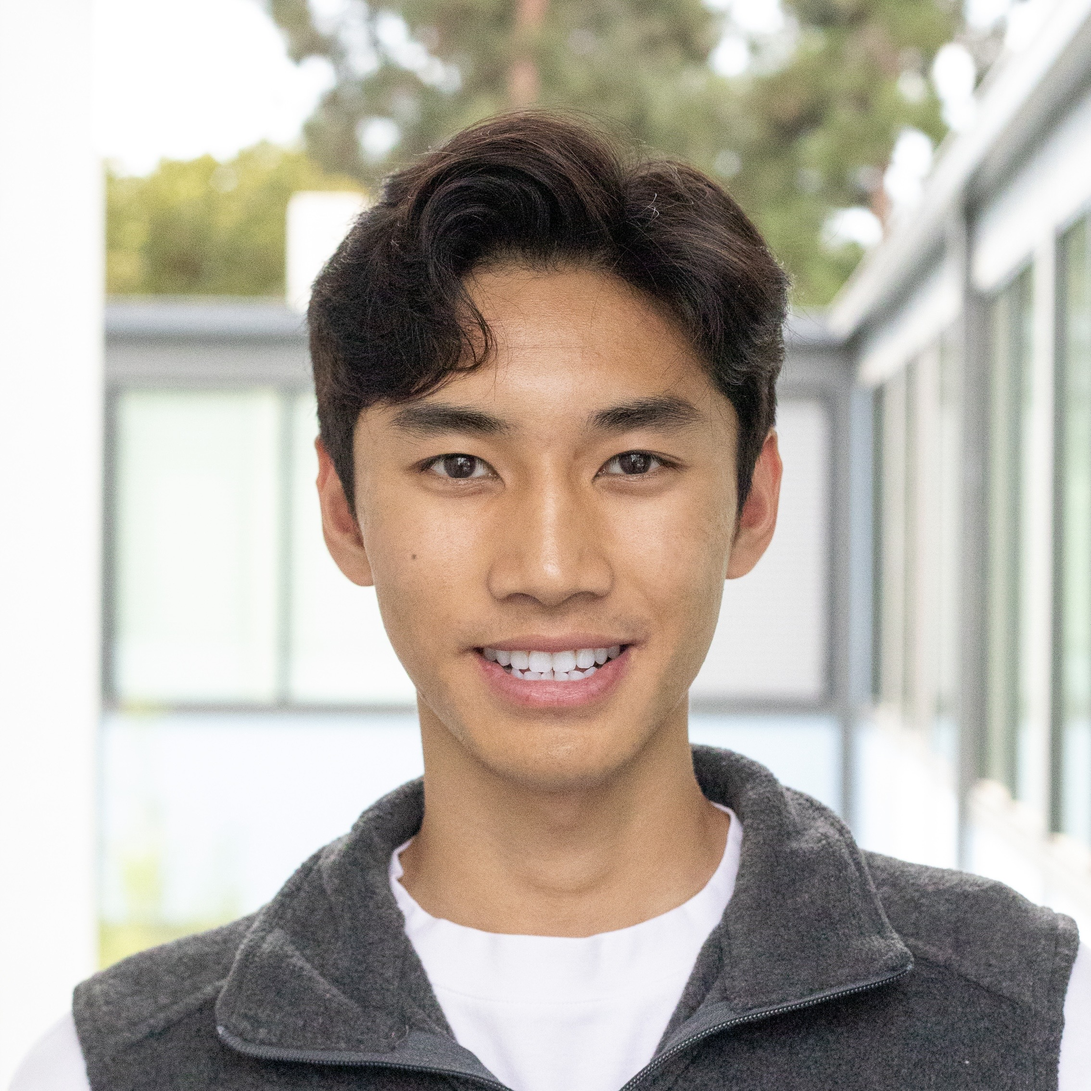
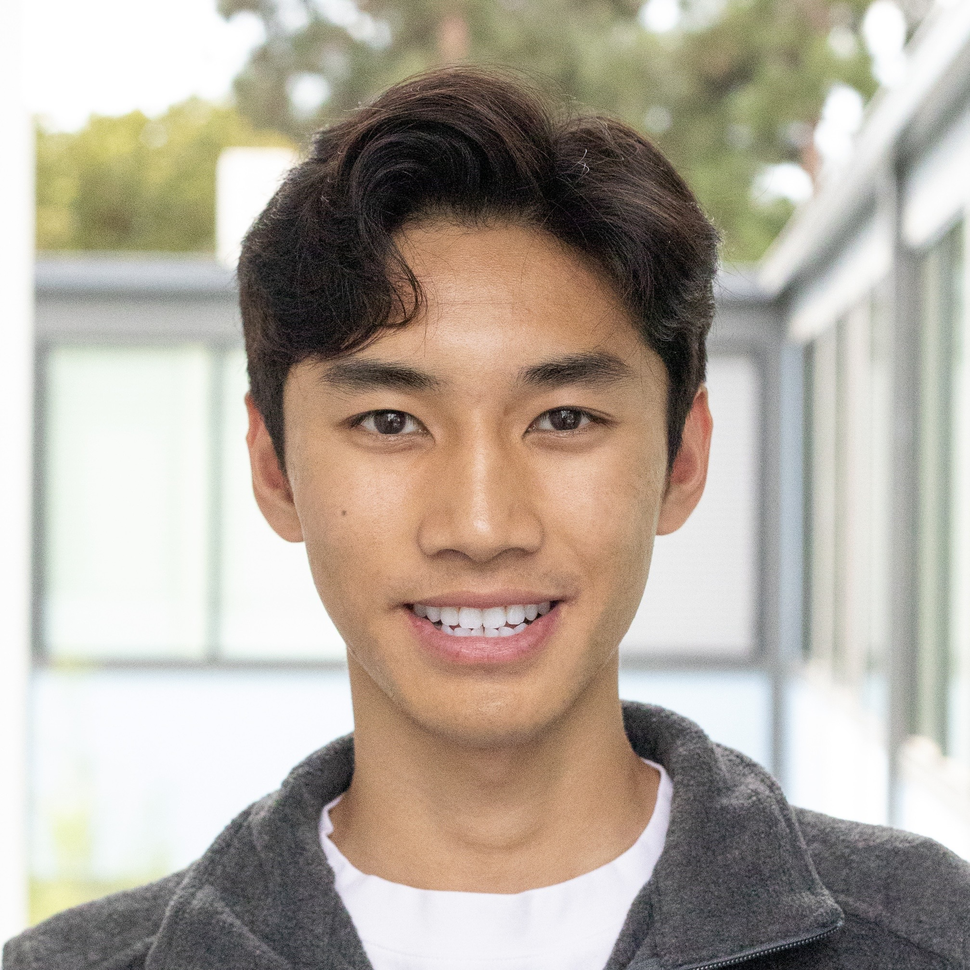
formatting

diff --git a/index.html b/index.html
@@ -1,6 +1,6 @@
 <!doctype html>
 <html lang="en">
-  <head>
+<head>
 
     <!-- Required meta tags -->
     <meta charset="utf-8">
@@ -15,102 +15,102 @@
     <!-- Bootstrap CSS -->
     <link rel="stylesheet" href="https://stackpath.bootstrapcdn.com/bootstrap/4.4.1/css/bootstrap.min.css" integrity="sha384-Vkoo8x4CGsO3+Hhxv8T/Q5PaXtkKtu6ug5TOeNV6gBiFeWPGFN9MuhOf23Q9Ifjh" crossorigin="anonymous">
     <link rel="stylesheet" href="assets/style-3.css">
-      
+
     <title>Peter Bui</title>
-  </head>
-  <body>
-    <!-- <h1>Hello, world!</h1> -->
-    <div class="container pt-5 allstuffp">
+</head>
+<body>
+<!-- <h1>Hello, world!</h1> -->
+<div class="container pt-5 allstuffp">
 
 
-        <div class="row pt-5 allstuff">
-            <div class="col-md-4 pt-5">
-                <div class="fixed-posi">
-                    <p class="name">Peter Bui</p>
-                    <img src="media/profile-picture2.png" class="profilepic pt-3 pb-2">
-                    <div class="pt-5 menur"><a class="menulink" target="_blank"></a></div>
-                    <div class=""><a class="menulink" target="_blank" href="https://www.linkedin.com/in/ptrbui/">linkedin</a></div>
-                    <!--<div class=""><a class="menulink" target="_blank" href="https://github.com/ptrbui">github</a></div> -->
-                    <div class=""><a class="menulink" target="_blank" href="https://leetcode.com/ptrbui/">leetcode</a></div>
-                    <div class=""><a class="menulink" target="_blank" href="https://substack.com/@ptrbui/">substack</a></div>
-                    <div class=""><a class="menulink" target="_blank" href="mailto:peterbui@usc.edu">email</a></div>
-                </div>
-            </div>
-
-
-            <div class="col-md-8 pt-5 about">
-                <p class="header pt-5">About Me</p>
-                I’m a computer science student at the <a class="in-text" href="https://www.usc.edu/"target="_blank">University of Southern California</a>, graduating in May 2025.
-                I’m interested in solving problems involving defense, telecommunications, IoT, algorithm development, and fintech.
-                <br><br>
-                I’m lucky to have worked on some interesting projects at various organizations.
-                This upcoming summer, I’ll be working in algorithm development at <a class="in-text" href="https://str.us/"target="_blank">STR</a> in Boston.
-                In previous years, I was involved in network programming projects at <a class="in-text" href="https://www.ll.mit.edu/"target="_blank">MIT Lincoln Laboratory</a>,
-                and telecommunications engineering at <a class="tag" href="https://esimplicity.com/" target="_blank">eSimplicity</a>.
-                I've also participated in the research mentorship program at <a class="tag" href="https://research.google/outreach/csrmp/recipients/?filtertab=2022" target="_blank">Google CSRMP</a>.
-                <br><br>
-                A lot of my time is spent thinking about different ways to improve experiences through software and computing. Journals + blogposts
-                of my thoughts can be found on my <a class="tag" href="https://substack.com/@ptrbui/" target="_blank">Substack</a>.
-                <br>
-
-
-                <p class="header pt-5">Experience</p>
-                <div class="py-2">
-                    <p class="paper my-2 pl-2">
-                        <span class="organization">STR</span><br>
-                        <span class="role">Software Engineering Intern</span><br>
-                        <span class="conf">Incoming Summer 2024</span><br>
-                        <a class="tag" href="https://str.us/" target="_blank">website</a>
-                    </p>
-                </div>
-                 <div class="py-2">
-                     <p class="paper my-2 pl-2">
-                         <span class="organization">MIT Lincoln Laboratory</span><br>
-                         <span class="role">Software Engineering Intern (Summer 2022)</span></br>
-                         <span class="conf">
-                             Group 33 - Advanced Sensors and Testbeds
-                         </span><br>
-                         <a class="tag" href="https://www.ll.mit.edu/" target="_blank">website</a>
-                     </p>
-                 </div>
-                <div class="py-2">
-                    <p class="paper my-2 pl-2">
-                        <span class="organization">eSimplicity</span><br>
-                        <span class="role">Electrical Engineering Intern (Summer 2020)</span><br>
-                        <span class="conf">
-                            Telecommunications, Spectrum, Signal Modeling
-                        </span><br>
-                        <a class="tag" href="https://esimplicity.com/" target="_blank">website</a>
-                    </p>
-                </div>
-
-                <p class="header pt-5">Extras + Recs</p>
-                Some cool blogs I've been reading. <br>
-                <a class="in-text" href="https://newsletter.pragmaticengineer.com/"target="_blank">The Pragmatic Engineer | Gergely Orosz</a><br>
-                <a class="in-text" href="https://jasonp.substack.com/"target="_blank">Thinking in Public | Jason Preston</a><br>
-                <a class="in-text" href="https://turingpost.substack.com/"target="_blank">Turing Post | Ksenia Se</a><br>
-                <a class="in-text" href="https://mgmtboston.substack.com/"target="_blank">MGMT Boston</a><br>
-                <a class="in-text" href="https://cybermonk.substack.com/?utm_source=edit-profile-visibility"target="_blank">cybermonk | Siddharth</a><br>
-
-                <br>Curations. <br>
-                <a class="in-text" href="https://www.lesswrong.com/"target="_blank">LessWrong</a><br>
-                <a class="in-text" href="https://tetw.org/"target="_blank">The Electric Typewriter</a><br>
-
-                <!-- bottom of page --><br><br>
-
+    <div class="row pt-5 allstuff">
+        <div class="col-md-4 pt-5">
+            <div class="fixed-posi">
+                <p class="name">Peter Bui</p>
+                <img src="media/profile-picture.png" class="profilepic pt-3 pb-2">
+                <div class="pt-5 menur"><a class="menulink" target="_blank"></a></div>
+                <div class=""><a class="menulink" target="_blank" href="https://www.linkedin.com/in/ptrbui/">linkedin</a></div>
+                <!--<div class=""><a class="menulink" target="_blank" href="https://github.com/ptrbui">github</a></div> -->
+                <div class=""><a class="menulink" target="_blank" href="https://leetcode.com/ptrbui/">leetcode</a></div>
+                <div class=""><a class="menulink" target="_blank" href="https://substack.com/@ptrbui/">substack</a></div>
+                <div class=""><a class="menulink" target="_blank" href="mailto:peterbui@usc.edu">email</a></div>
             </div>
         </div>
-            
+
+
+        <div class="col-md-8 pt-5 about">
+            <p class="header pt-5">About Me</p>
+            I’m a computer science student at the <a class="in-text" href="https://www.usc.edu/"target="_blank">University of Southern California</a>, graduating in May 2025.
+            I’m interested in solving problems involving defense, telecommunications, IoT, algorithm development, and fintech.
+            <br><br>
+            I’m lucky to have worked on some interesting projects at various organizations.
+            This upcoming summer, I’ll be working in algorithm development at <a class="in-text" href="https://str.us/"target="_blank">STR</a> in Boston.
+            In previous years, I was involved in network programming projects at <a class="in-text" href="https://www.ll.mit.edu/"target="_blank">MIT Lincoln Laboratory</a>,
+            and telecommunications engineering at <a class="tag" href="https://esimplicity.com/" target="_blank">eSimplicity</a>.
+            I've also participated in the research mentorship program at <a class="tag" href="https://research.google/outreach/csrmp/recipients/?filtertab=2022" target="_blank">Google CSRMP</a>.
+            <br><br>
+            A lot of my time is spent thinking about different ways to improve experiences through software and computing. Journals + blogposts
+            of my thoughts can be found on my <a class="tag" href="https://substack.com/@ptrbui/" target="_blank">Substack</a>.
+            <br>
+
+
+            <p class="header pt-5">Experience</p>
+            <div class="py-2">
+                <p class="paper my-2 pl-2">
+                    <span class="organization">STR</span><br>
+                    <span class="role">Software Engineering Intern</span><br>
+                    <span class="conf">Incoming Summer 2024</span><br>
+                    <a class="tag" href="https://str.us/" target="_blank">website</a>
+                </p>
+            </div>
+            <div class="py-2">
+                <p class="paper my-2 pl-2">
+                    <span class="organization">MIT Lincoln Laboratory</span><br>
+                    <span class="role">Software Engineering Intern (Summer 2022)</span></br>
+                    <span class="conf">
+                             Group 33 - Advanced Sensors and Testbeds
+                         </span><br>
+                    <a class="tag" href="https://www.ll.mit.edu/" target="_blank">website</a>
+                </p>
+            </div>
+            <div class="py-2">
+                <p class="paper my-2 pl-2">
+                    <span class="organization">eSimplicity</span><br>
+                    <span class="role">Electrical Engineering Intern (Summer 2020)</span><br>
+                    <span class="conf">
+                            Telecommunications, Spectrum, Signal Modeling
+                        </span><br>
+                    <a class="tag" href="https://esimplicity.com/" target="_blank">website</a>
+                </p>
+            </div>
+
+            <p class="header pt-5">Extras + Recs</p>
+            Some cool blogs I've been reading. <br>
+            <a class="in-text" href="https://newsletter.pragmaticengineer.com/"target="_blank">The Pragmatic Engineer | Gergely Orosz</a><br>
+            <a class="in-text" href="https://jasonp.substack.com/"target="_blank">Thinking in Public | Jason Preston</a><br>
+            <a class="in-text" href="https://turingpost.substack.com/"target="_blank">Turing Post | Ksenia Se</a><br>
+            <a class="in-text" href="https://mgmtboston.substack.com/"target="_blank">MGMT Boston</a><br>
+            <a class="in-text" href="https://cybermonk.substack.com/?utm_source=edit-profile-visibility"target="_blank">cybermonk | Siddharth</a><br>
+
+            <br>Curations. <br>
+            <a class="in-text" href="https://www.lesswrong.com/"target="_blank">LessWrong</a><br>
+            <a class="in-text" href="https://tetw.org/"target="_blank">The Electric Typewriter</a><br>
+
+            <!-- bottom of page --><br><br>
+
         </div>
     </div>
 
-    <!-- Optional JavaScript -->
-    <!-- jQuery first, then Popper.js, then Bootstrap JS -->
-    <script src="https://code.jquery.com/jquery-3.4.1.slim.min.js" integrity="sha384-J6qa4849blE2+poT4WnyKhv5vZF5SrPo0iEjwBvKU7imGFAV0wwj1yYfoRSJoZ+n" crossorigin="anonymous"></script>
-    <script src="https://cdn.jsdelivr.net/npm/popper.js@1.16.0/dist/umd/popper.min.js" integrity="sha384-Q6E9RHvbIyZFJoft+2mJbHaEWldlvI9IOYy5n3zV9zzTtmI3UksdQRVvoxMfooAo" crossorigin="anonymous"></script>
-    <script src="https://stackpath.bootstrapcdn.com/bootstrap/4.4.1/js/bootstrap.min.js" integrity="sha384-wfSDF2E50Y2D1uUdj0O3uMBJnjuUD4Ih7YwaYd1iqfktj0Uod8GCExl3Og8ifwB6" crossorigin="anonymous"></script>
-    <script src="assets/style-2.js"></script>
+</div>
+</div>
+
+<!-- Optional JavaScript -->
+<!-- jQuery first, then Popper.js, then Bootstrap JS -->
+<script src="https://code.jquery.com/jquery-3.4.1.slim.min.js" integrity="sha384-J6qa4849blE2+poT4WnyKhv5vZF5SrPo0iEjwBvKU7imGFAV0wwj1yYfoRSJoZ+n" crossorigin="anonymous"></script>
+<script src="https://cdn.jsdelivr.net/npm/popper.js@1.16.0/dist/umd/popper.min.js" integrity="sha384-Q6E9RHvbIyZFJoft+2mJbHaEWldlvI9IOYy5n3zV9zzTtmI3UksdQRVvoxMfooAo" crossorigin="anonymous"></script>
+<script src="https://stackpath.bootstrapcdn.com/bootstrap/4.4.1/js/bootstrap.min.js" integrity="sha384-wfSDF2E50Y2D1uUdj0O3uMBJnjuUD4Ih7YwaYd1iqfktj0Uod8GCExl3Og8ifwB6" crossorigin="anonymous"></script>
+<script src="assets/style-2.js"></script>
 </body>
-  <style>
-  </style>
+<style>
+</style>
 </html>
